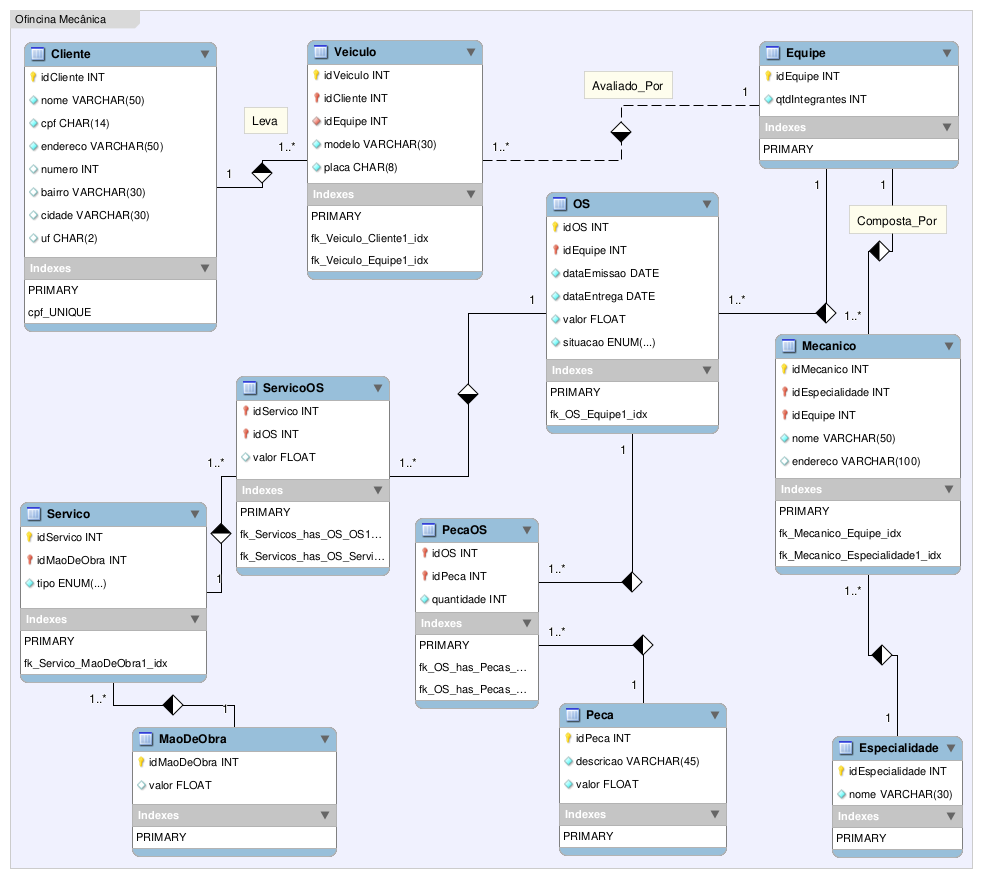
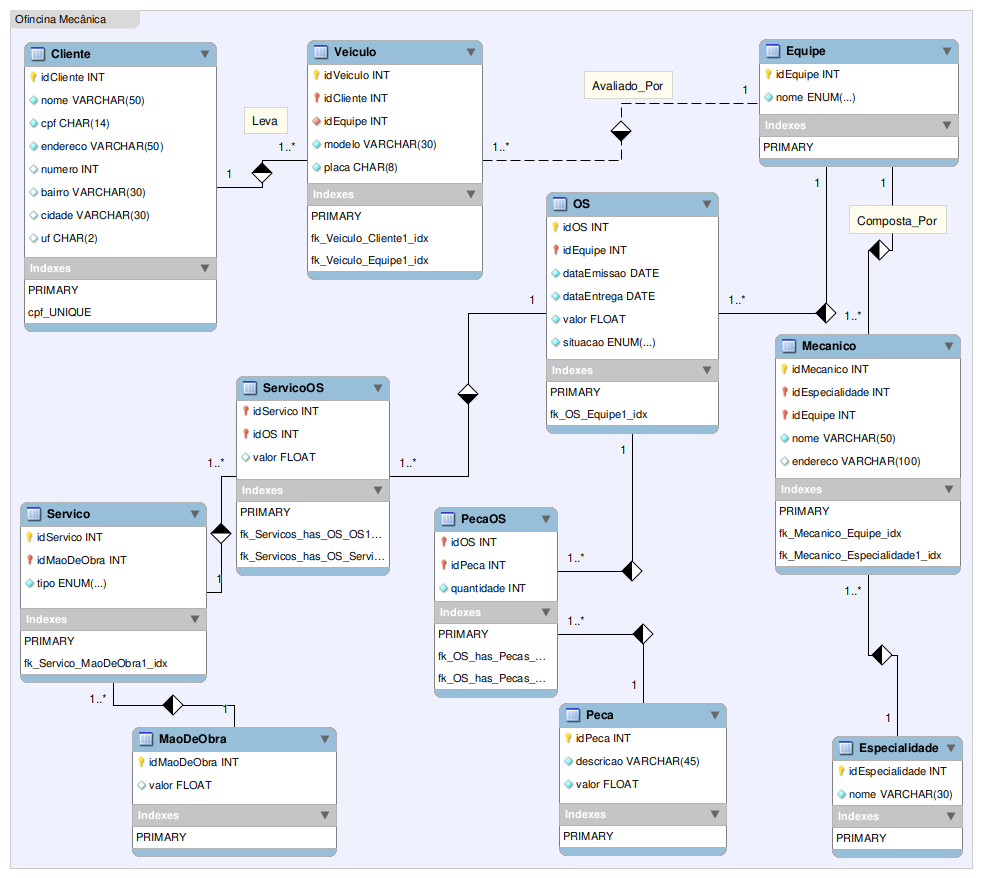
EER - Alteração na tabela equipe, adição do campo nome

diff --git a/README.md b/README.md
@@ -1,14 +1,13 @@
 
 Narrativa:
-Sistema de controle e gerenciamento de execução de ordens de serviço em uma oficina mecânica
-Clientes levam veículos à oficina mecânica para serem consertados ou para passarem por revisões  periódicas
-Cada veículo é designado a uma equipe de mecânicos que identifica os serviços a serem executados e preenche uma OS com data de entrega.
-A partir da OS, calcula-se o valor de cada serviço, consultando-se uma tabela de referência de mão-de-obra
-O valor de cada peça também irá compor a OS.
-O cliente autoriza a execução dos serviços
-A mesma equipe avalia e executa os serviços
-Os mecânicos possuem código, nome, endereço e especialidade
-Cada OS possui: n°, data de emissão, um valor, status e uma data para conclusão dos trabalhos.
-Agora é a sua vez de ser o protagonista! Implemente o desafio sugerido pela expert e suba seu projeto para um repositório próprio, com isso, você aumentará ainda mais seu portfólio de projetos no GitHub!
 
+Sistema de controle e gerenciamento de execução de ordens de serviço em uma oficina mecânica.
+Clientes levam veículos à oficina mecânica para serem consertados ou para passarem por revisões periódicas.
+Cada veículo é designado a uma equipe de mecânicos que identifica os serviços a serem executados e preenche uma OS com data de entrega.
+A partir da OS, calcula-se o valor de cada serviço, consultando-se uma tabela de referência de mão-de-obra.
+O valor de cada peça também irá compor a OS.
+O cliente autoriza a execução dos serviços.
+A mesma equipe avalia e executa os serviços.
+Os mecânicos possuem código, nome, endereço e especialidade.
+Cada OS possui: n°, data de emissão, um valor, status e uma data para conclusão dos trabalhos.
 
